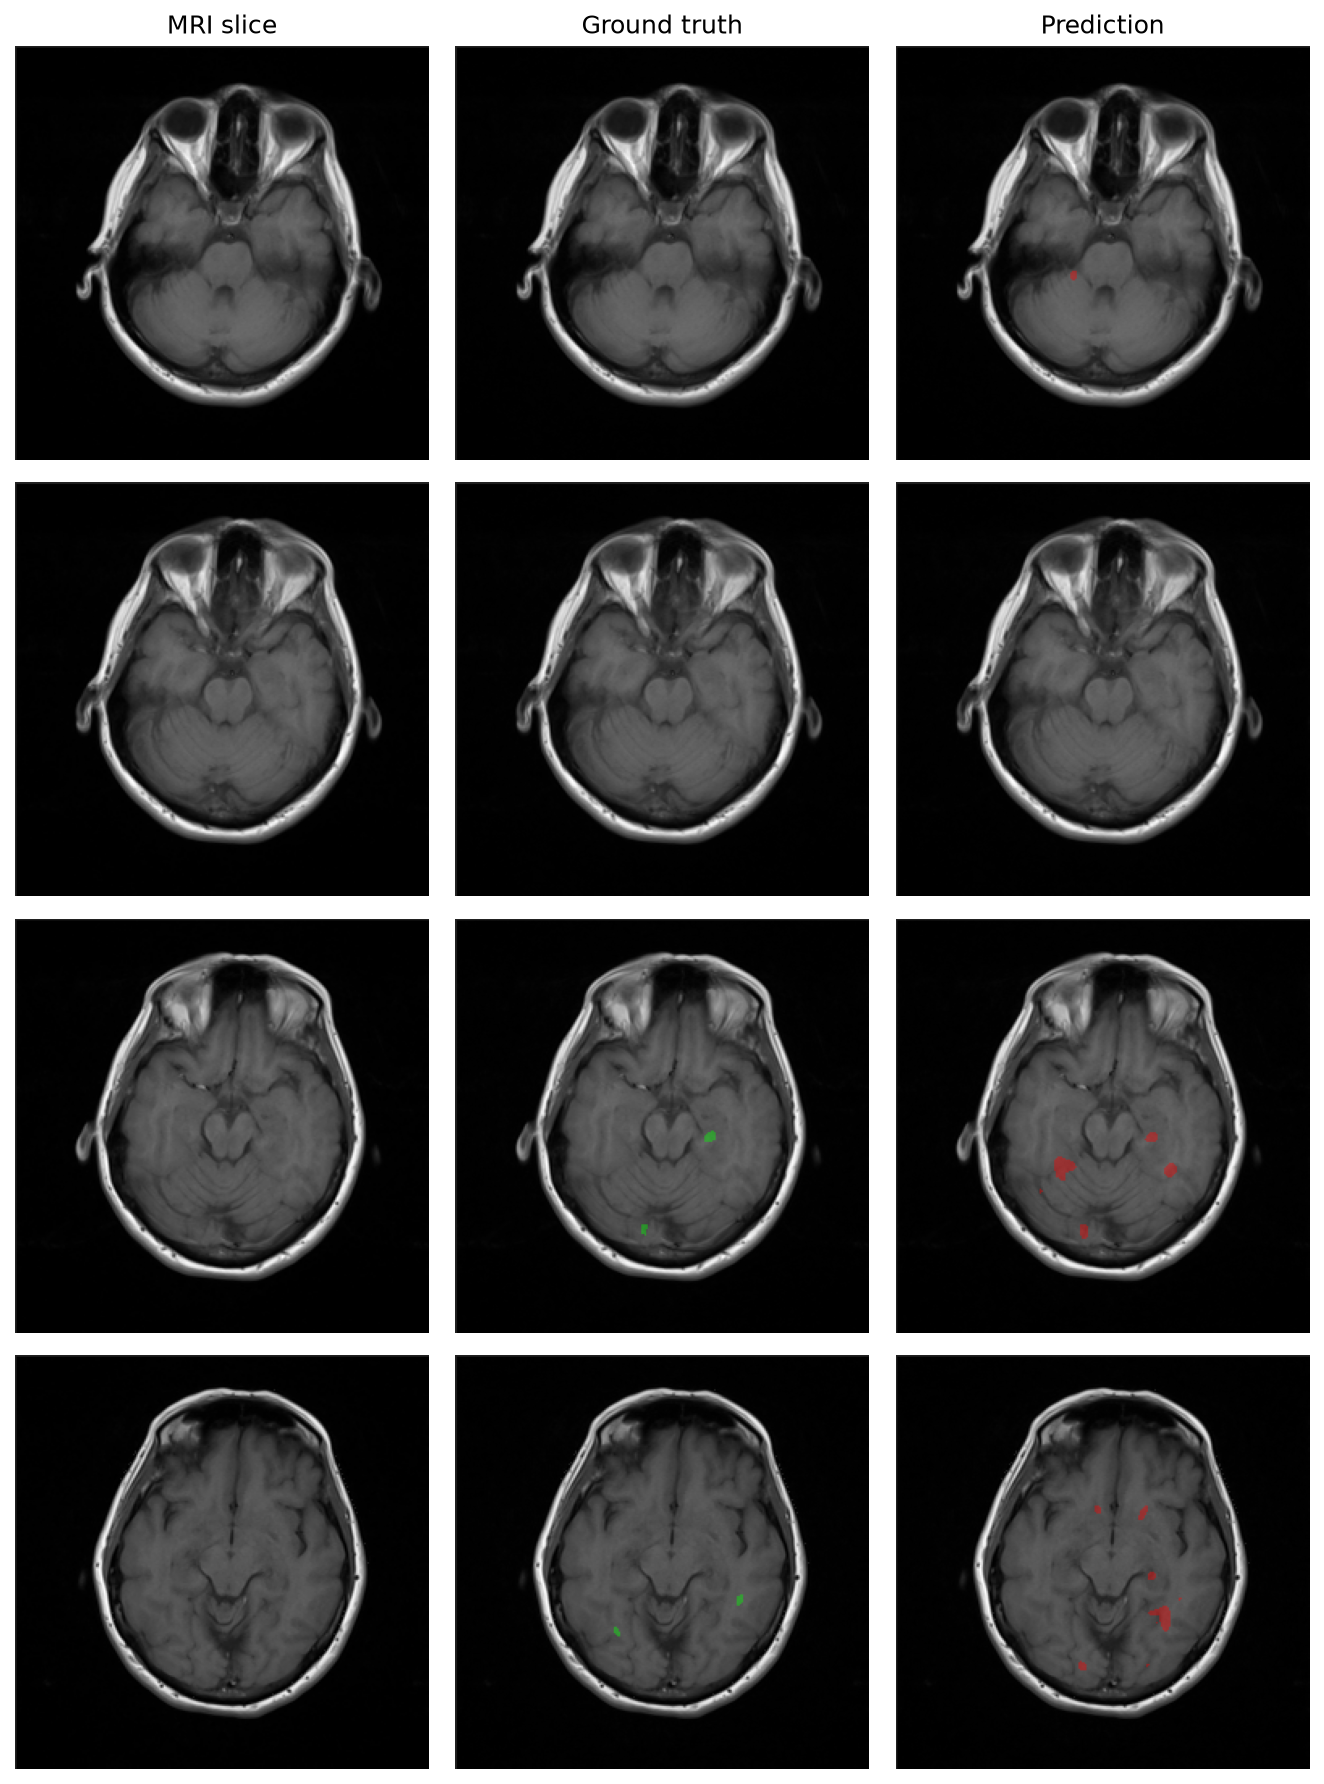
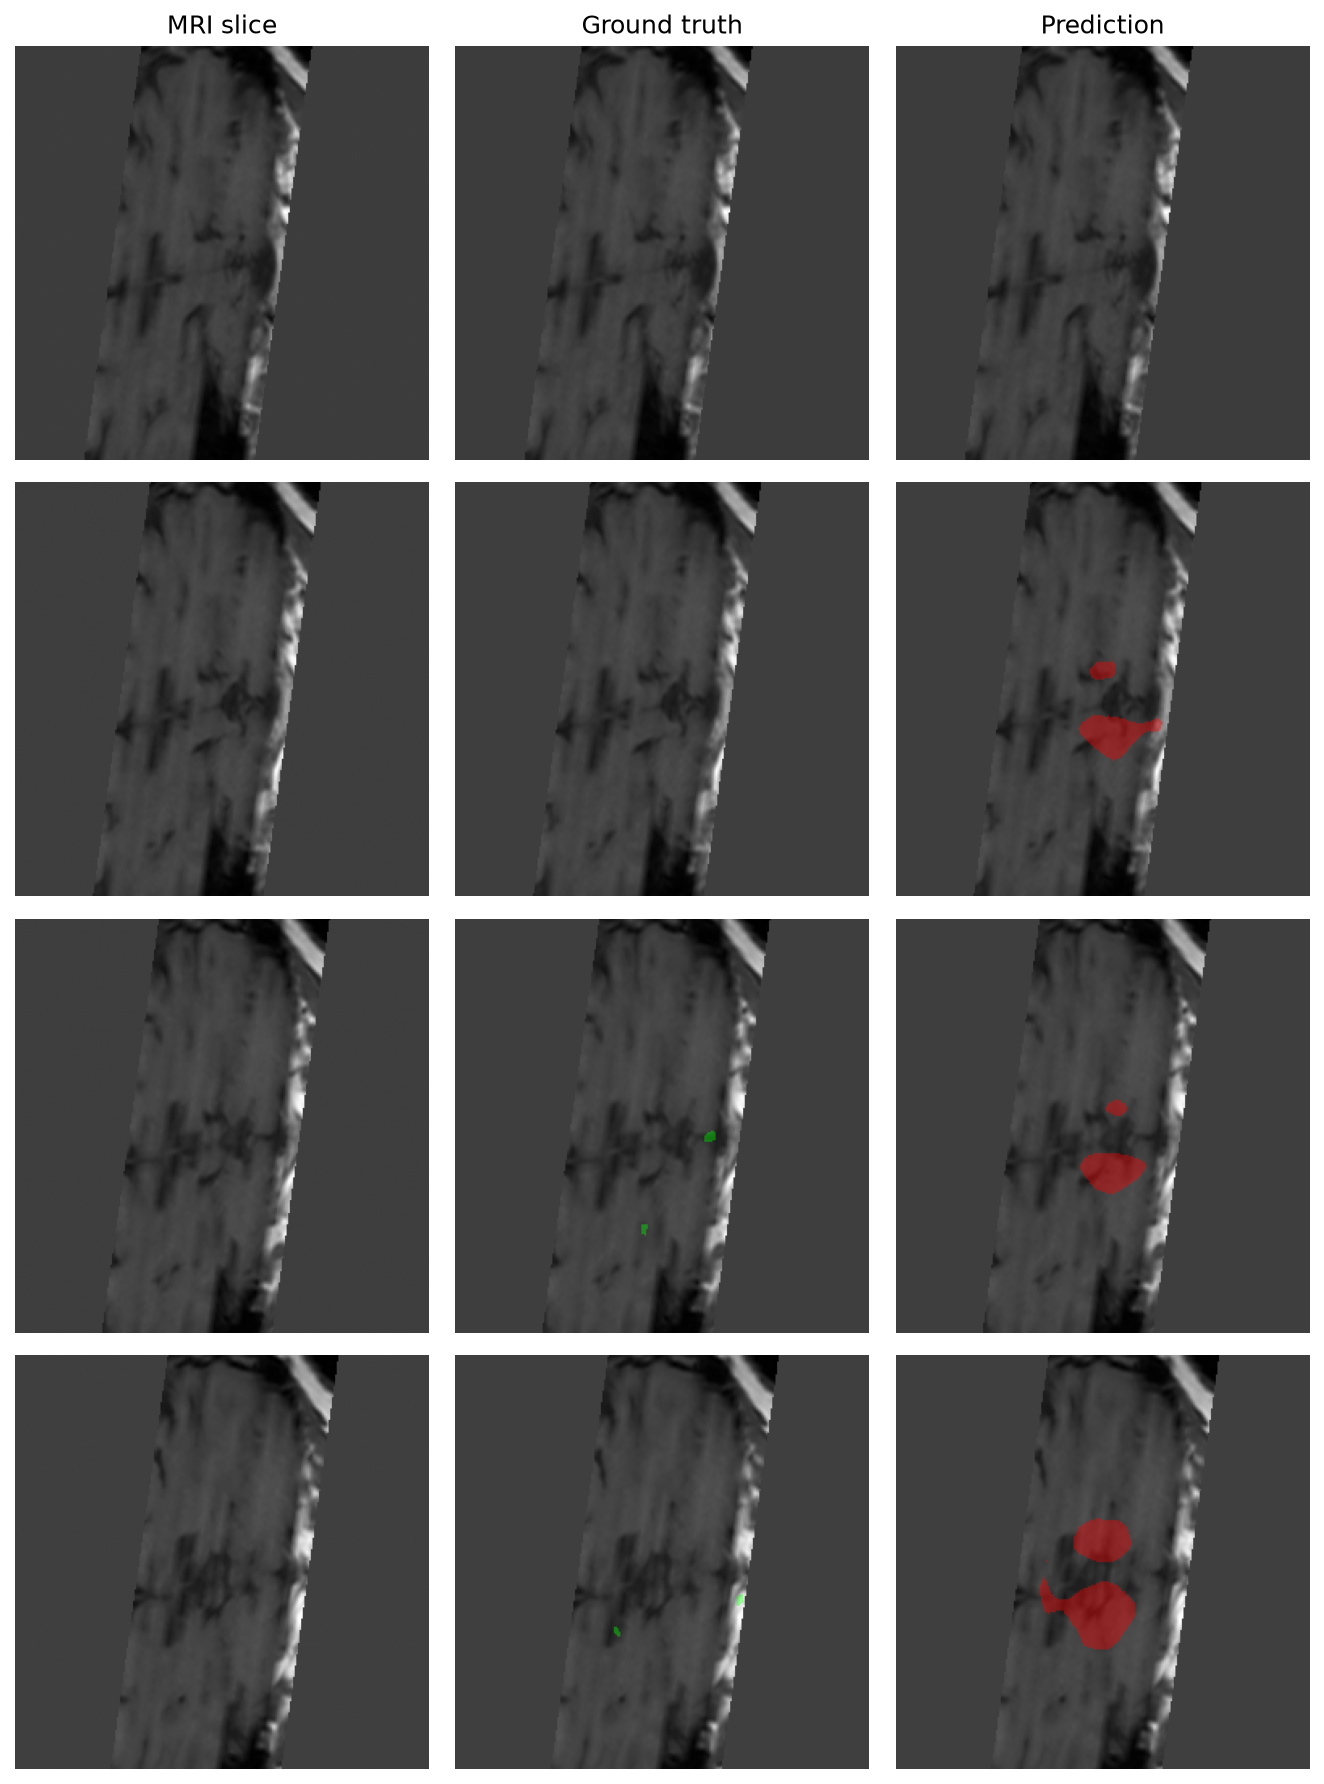
Exp 5: SimpleITK rigid registration — severe regression, documented
Dice dropped from 0.551 (Exp 4) to 0.132 due to NIfTI headers in this
dataset having synthetic spatial metadata (origin=0, spacing=1, identity
direction) with no real patient-space coordinates. The MI optimizer has
nothing real to align, and the geometry-only fallback is worse than
proportional zoom. FOV mismatch (T1 512x512mm → FLAIR 256x256mm grid)
also clips half the T1 field of view. Analysis and conclusion documented
in outputs/experiments.md. Proportional zoom remains the correct strategy.

Includes: train_exp5.log, eval_exp5.log, preprocessing_registration.log,
updated metrics CSVs and prediction_examples.png.

diff --git a/outputs/experiments.md b/outputs/experiments.md
@@ -87,16 +87,42 @@ Std improved vs Exp 3 (0.056 vs 0.069). Fold 1 recovered to 0.481 (was 0.437 in 
 
 ---
 
+## Exp 5 — Registro anatómico real (SimpleITK rigid) + Tversky α=0.6
+**Date**: 2026-07-17  
+**Motivación**: El zoom proporcional (`scipy.ndimage.zoom`) no alinea anatómicamente las modalidades — un vóxel en [x,y,z] de FLAIR no corresponde al mismo tejido en T1/T2 tras el rescalado. El registro rígido con Mattes MI debería corregir este desalineamiento, reduciendo ruido de canal en todas las métricas.  
+**Cambio**: Reemplazar `nd_zoom` en `load_patient_volumes` por `_register_sitk` (SimpleITK Euler3D + Mattes MI, pirámide dinámica, NONE sampling, fallback geometry-only). Sin cambios en loss, arquitectura ni split. Commits: `e720b47`, `e315a2e`, `ff6b56e`.  
+**Config**: igual que Exp 4 (Tversky α=0.6, early stopping patience=15, ReduceLROnPlateau patience=5).  
+Early stopping epochs: fold0=48, fold1=31, fold2=53, fold3=37, fold4=33
+
+| Fold | Dice | IoU | Sensitivity | Precision |
+|------|------|-----|-------------|-----------|
+| 0 | 0.1432 | 0.1295 | 0.4304 | 0.4158 |
+| 1 | 0.1479 | 0.1356 | 0.3681 | 0.3785 |
+| 2 | 0.1613 | 0.1452 | 0.2675 | 0.3049 |
+| 3 | 0.0931 | 0.0780 | 0.2768 | 0.3842 |
+| 4 | 0.1137 | 0.0911 | 0.4573 | 0.1250 |
+| **Mean** | **0.132** | **0.116** | **0.360** | **0.322** |
+| **Std**  | **0.028** | **0.029** | **0.087** | **0.117** |
+
+**Key result**: Regresión severa — Dice 0.132 vs 0.551 en Exp 4 (−0.419). El registro, tal como está implementado, empeora drásticamente el rendimiento. 
+
+**Diagnóstico probable**:
+1. **Geometría NIfTI uniforme**: Todos los volúmenes de este dataset tienen `origin=(0,0,0)`, `spacing=(1,1,1,1)` y `direction=identity` en los headers NIfTI — es decir, no hay metadatos de posición real en el espacio del paciente. El inicializador por geometría centra los volúmenes en el mismo punto, y la optimización de MI sobre volúmenes con headers idénticos no tiene información posicional real que explotar. El registro termina produciendo alineaciones aleatorias o subóptimas (muchos folds hacen fallback geometry-only porque el optimizer diverge con pyrámide shrink=[1]).
+2. **FOV asimétrico**: T1 (512×512mm) se resamplea al grid de FLAIR (256×256mm), recortando la mitad del campo de visión de T1. Con zoom proporcional, toda la imagen escalaba suavemente; con registro+resample, se pierde información en el borde.
+3. **Pérdida de 2 pacientes**: Patients 5 y 11 producen 0 slices tras el registro (posiblemente por resampling fuera del FOV), dejando 58 pacientes (vs 60 en Exp 4).
+
+**Conclusión**: El registro anatómico real solo aporta valor cuando los headers NIfTI contienen coordenadas espaciales reales (posición del paciente en el escáner). En este dataset, los headers son sintéticos/vacíos — el zoom proporcional sigue siendo la mejor estrategia de resampling para este caso de uso.
+
+---
+
 ## Summary across experiments
 
-| Exp | Loss | alpha | Mean Dice | Std Dice | Mean Sensitivity | Mean Precision |
-|-----|------|-------|-----------|----------|------------------|----------------|
-| 1 | Dice+BCE | — | 0.553 | 0.051 | 0.578 | 0.661 |
-| 2 | Dice+BCE + N4 | — | 0.553 | 0.051 | 0.578 | 0.661 |
-| 3 | Tversky | 0.7 | 0.543 | 0.069 | 0.630 | 0.590 |
-| **4** | **Tversky** | **0.6** | **0.551** | **0.056** | **0.626** | **0.605** |
+| Exp | Loss | alpha | Preprocesamiento | Mean Dice | Std Dice | Mean Sensitivity | Mean Precision |
+|-----|------|-------|-----------------|-----------|----------|------------------|----------------|
+| 1 | Dice+BCE | — | zoom proporcional | 0.553 | 0.051 | 0.578 | 0.661 |
+| 2 | Dice+BCE + N4 | — | zoom proporcional | 0.553 | 0.051 | 0.578 | 0.661 |
+| 3 | Tversky | 0.7 | zoom proporcional | 0.543 | 0.069 | 0.630 | 0.590 |
+| **4** | **Tversky** | **0.6** | **zoom proporcional** | **0.551** | **0.056** | **0.626** | **0.605** |
+| 5 | Tversky | 0.6 | registro sitk rigid | 0.132 | 0.028 | 0.360 | 0.322 |
 
-**Takeaway**: Tversky(0.6) gives the best sensitivity/precision tradeoff. Dice is nearly identical
-to baseline but sensitivity is +0.048 — clinically relevant (fewer missed lesions).
-The persistent bottleneck is fold 1 (0.48 across all experiments); likely a data issue in that
-validation set rather than a modeling issue. Next lever: anatomical registration (Improvement #1).
+**Takeaway**: Exp 4 sigue siendo el mejor resultado. El registro anatómico (Exp 5) produce una regresión severa porque los headers NIfTI de este dataset no contienen coordenadas espaciales reales — el registro optimiza sobre información posicional inexistente. Revertir a zoom proporcional para cualquier iteración futura. Próximos levers: arquitectura 2.5D, augmentation más agresivo, o explorar el fold 1 (bottleneck persistente ≈0.48 en todos los experimentos con zoom).